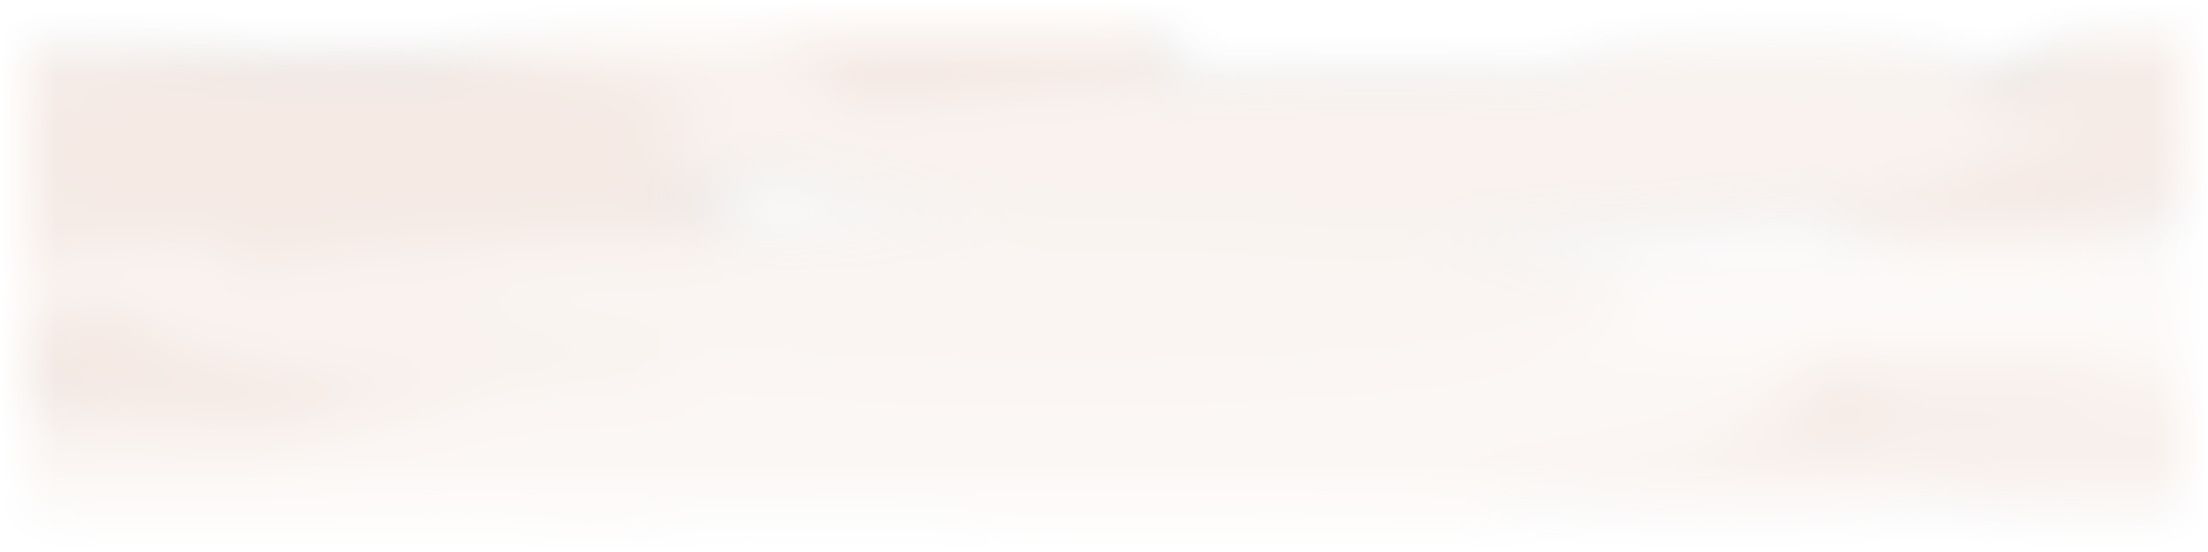
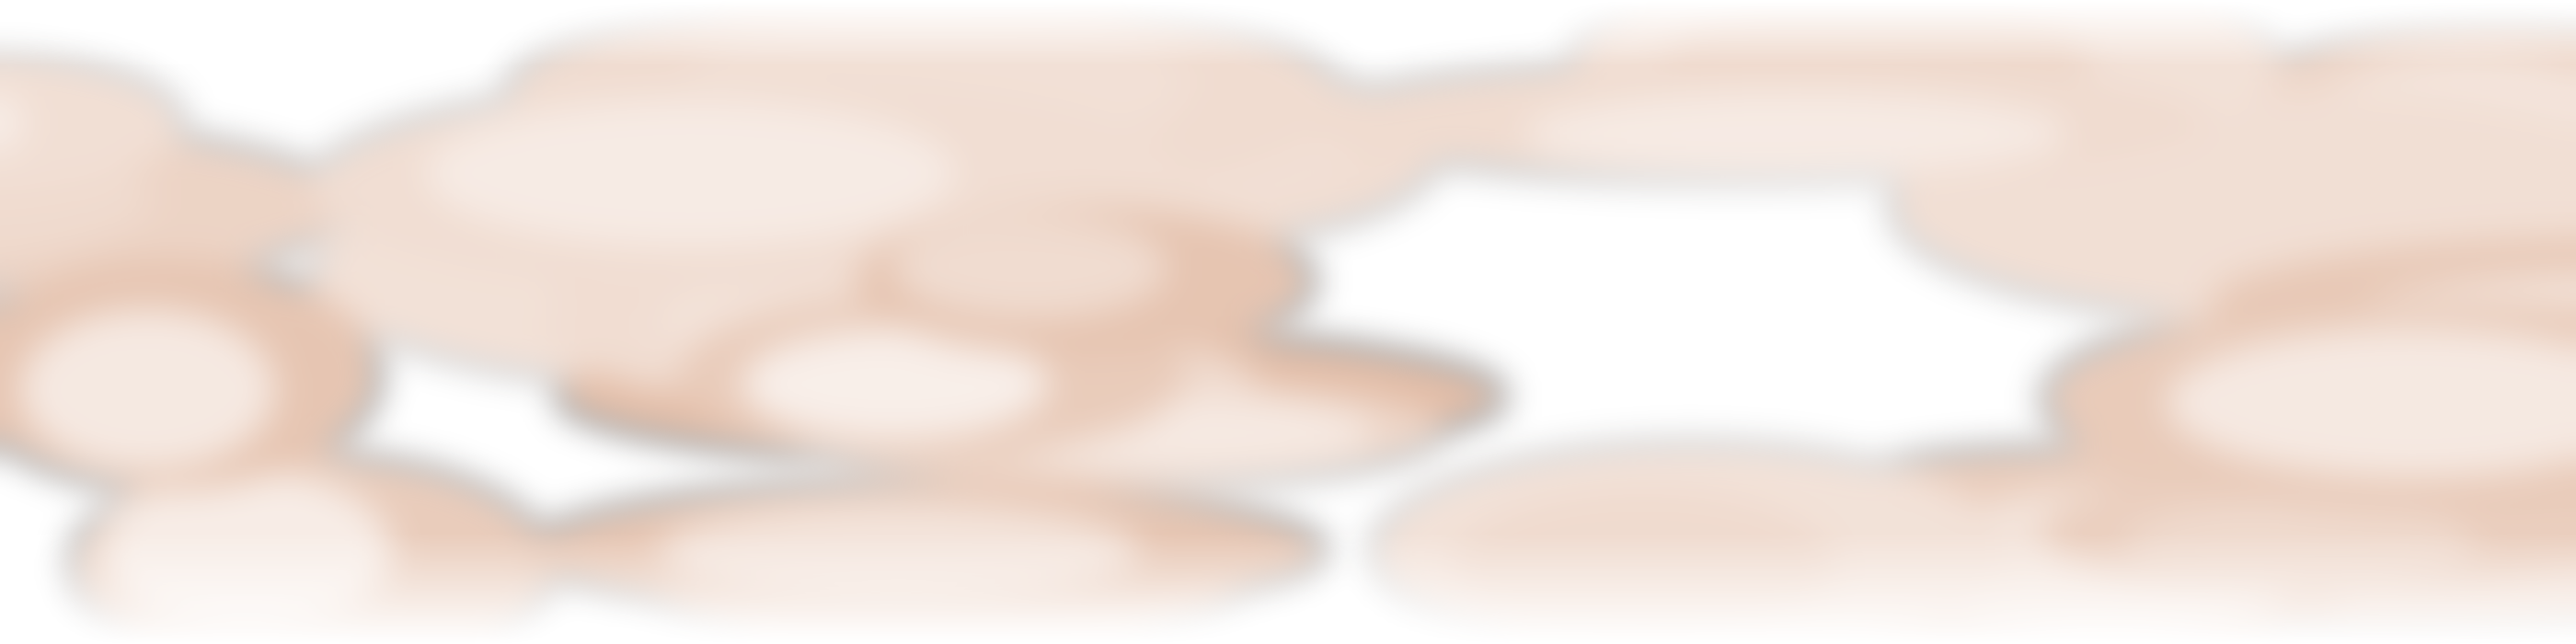
Make hero clouds denser and faster so the pan is visible
Texture contrast raised. Cycle cut from 80s to 28s. Opacity raised.

diff --git a/src/routes/index.tsx b/src/routes/index.tsx
@@ -54,8 +54,8 @@ function Home() {
           }}
         >
           <div className="hero-clouds flex h-full w-[200%]">
-            <img src="/images/hero-clouds.png" alt="" className="h-full w-1/2 object-cover opacity-55" />
-            <img src="/images/hero-clouds.png" alt="" className="h-full w-1/2 object-cover opacity-55" />
+            <img src="/images/hero-clouds.png" alt="" className="h-full w-1/2 object-cover opacity-70" />
+            <img src="/images/hero-clouds.png" alt="" className="h-full w-1/2 object-cover opacity-70" />
           </div>
         </div>
         <div className="absolute inset-0 bg-gradient-to-t from-coal via-coal/55 to-coal/10" />

diff --git a/src/styles.css b/src/styles.css
@@ -802,7 +802,7 @@
 }
 
 .hero-clouds {
-  animation: hero-clouds 80s linear infinite;
+  animation: hero-clouds 28s linear infinite;
   will-change: transform;
 }
 
